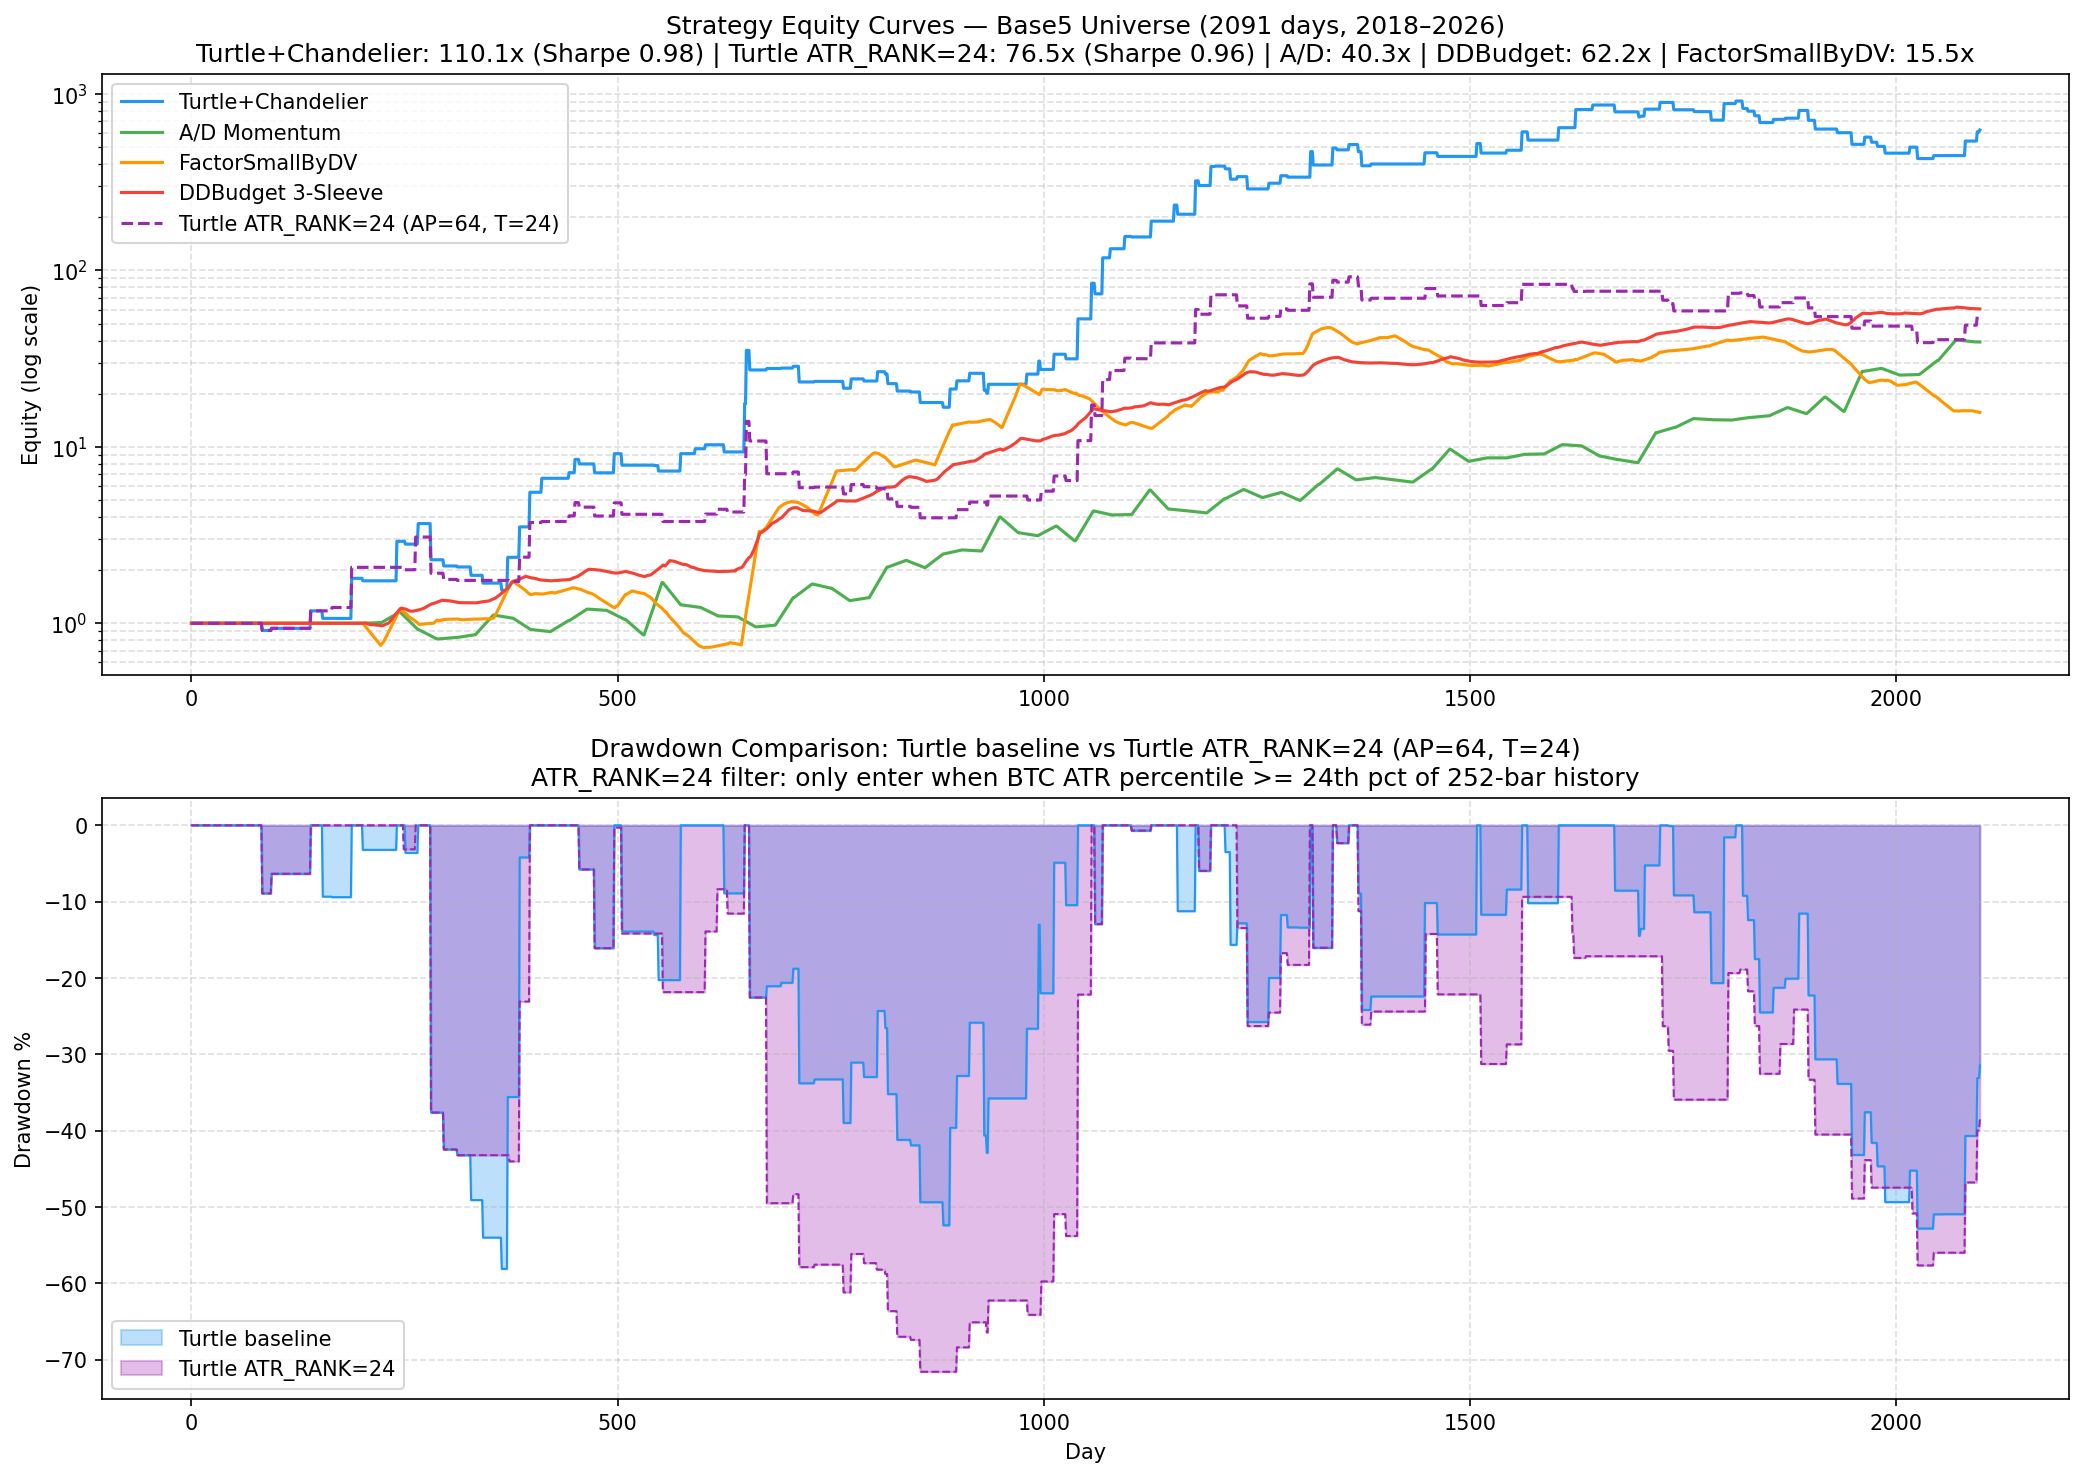
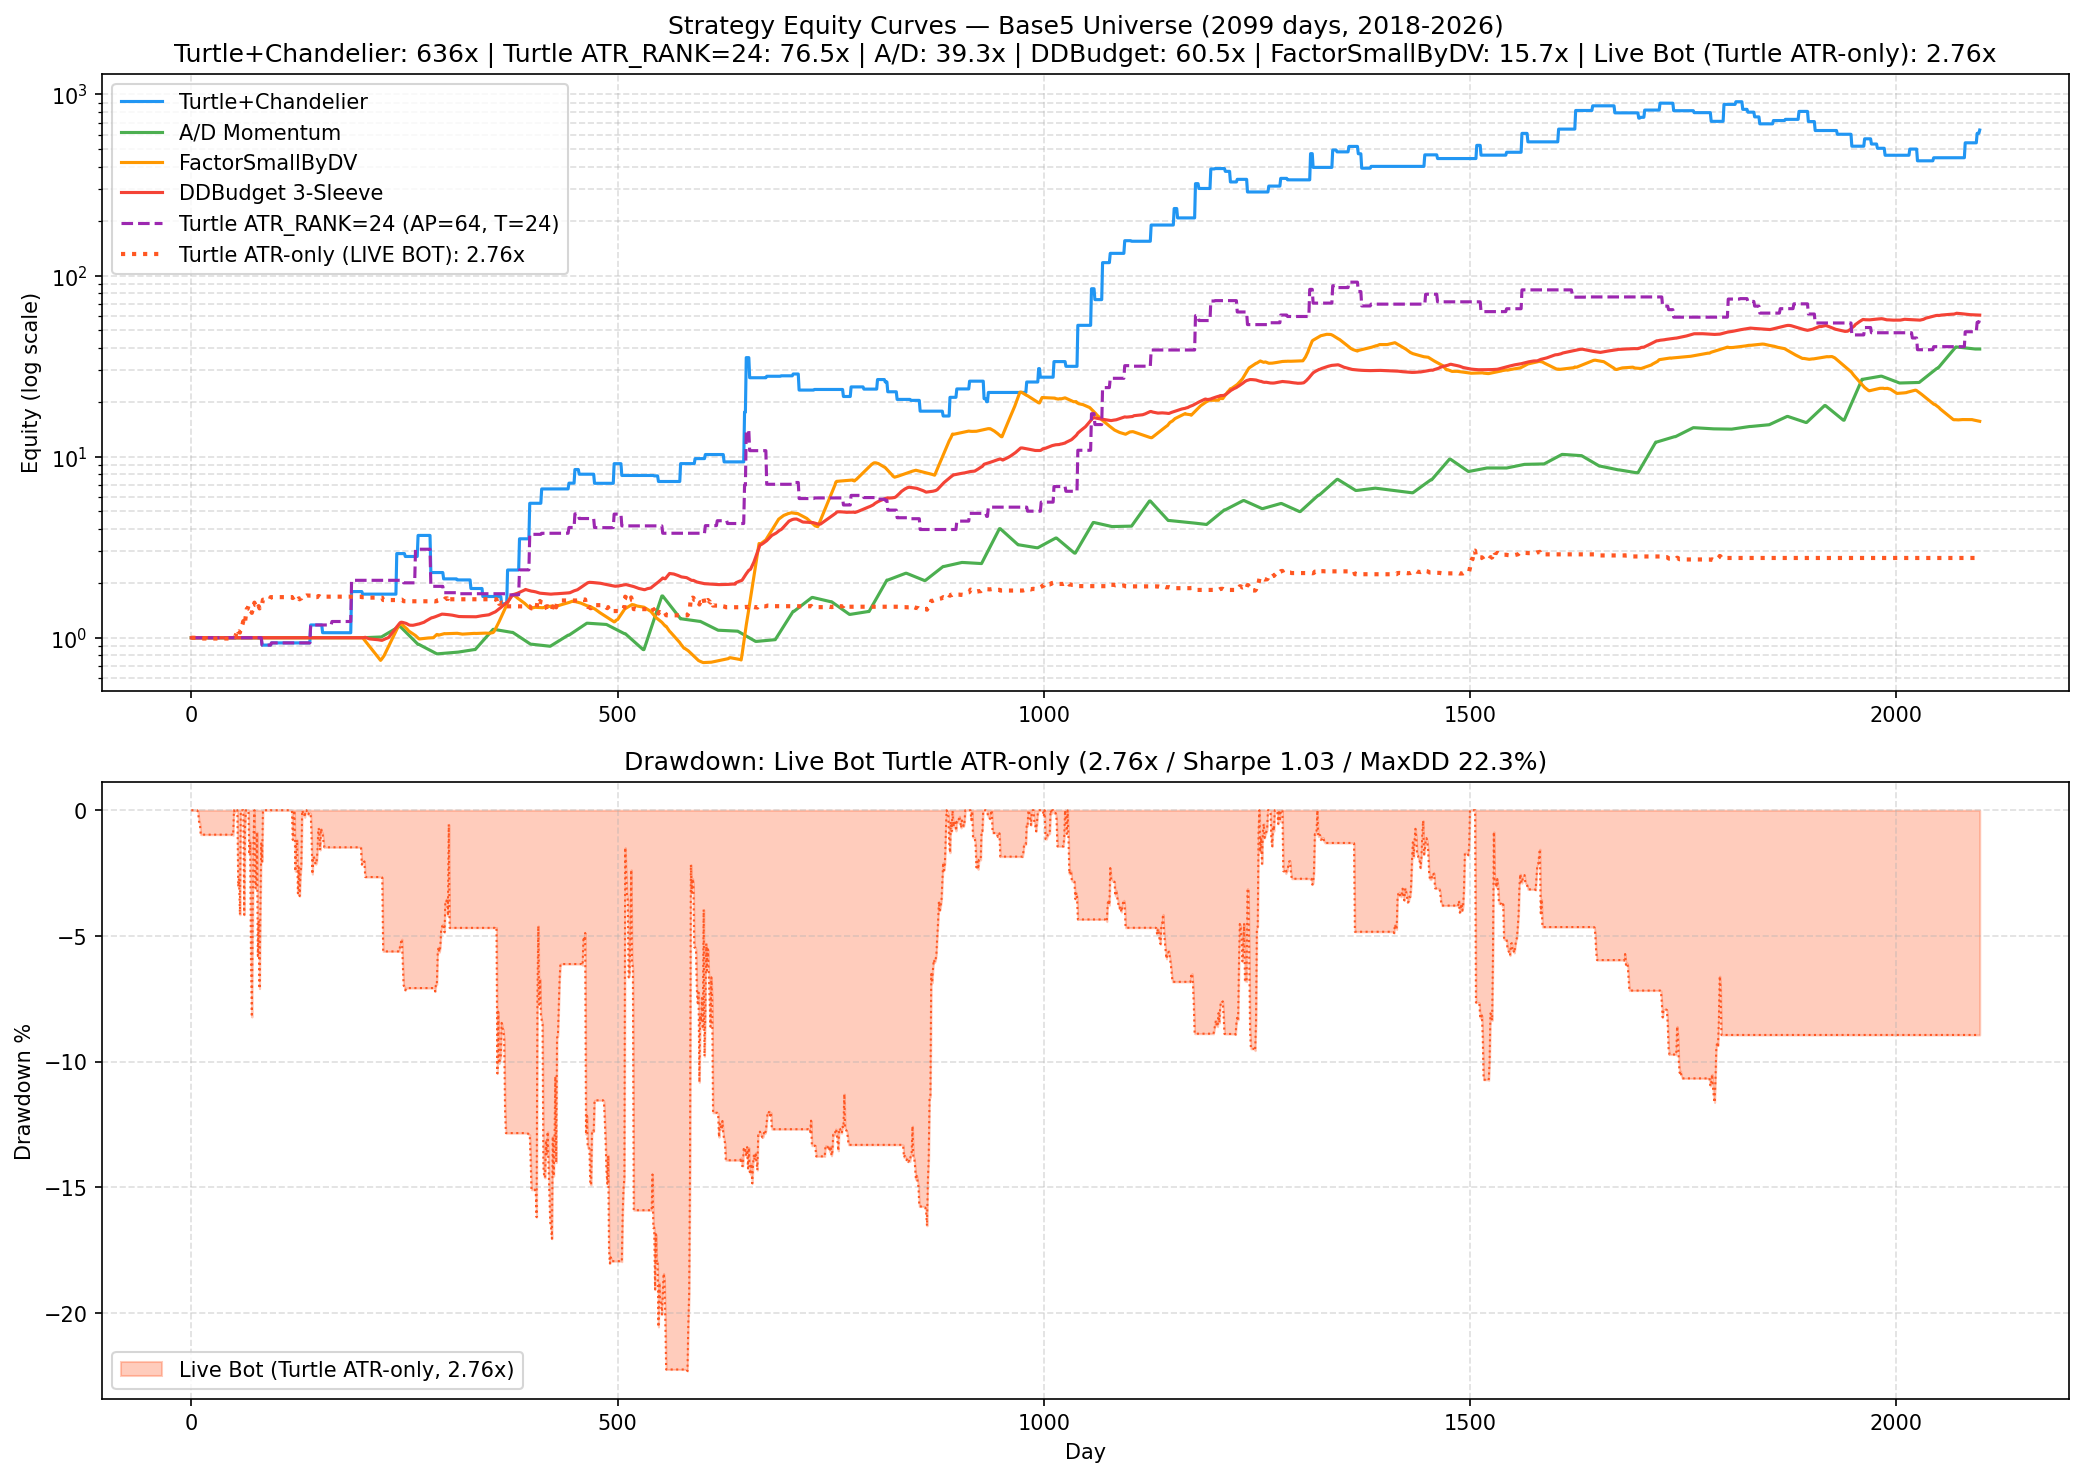
docs: plot_progress.py — add live bot equity line (2.76x) to progress chart
Previously the progress chart showed only:
- Turtle+Chandelier research harness (636x)
- Turtle ATR_RANK=24 production path (57.6x)
- A/D, DDBudget, FactorSmallByDV

The exact-live Turtle ATR-only bot (2.76x, bar 300-2099) was not
visualized. Noah saw 636x and thought it was the live bot performance.
Fixed by loading live_bot_exact_equity.csv and plotting it as a 5th
strategy line (orange dotted, linewidth 2.0).

Chart title updated to honestly disclose both the 636x research harness
and the 2.76x live bot equity.

Changed region(s): [[0.0, 0.0, 0.9981, 0.9343], [0.0312, 0.872, 0.2495, 0.9343], [0.0, 0.6852, 0.0312, 0.7786]]

diff --git a/charts/plot_progress.py b/charts/plot_progress.py
@@ -16,7 +16,7 @@ with open('snapshots/progress_equity_curves.csv') as f:
     for row in reader:
         rows.append([float(x) for x in row])
 
-days = np.array([r[0] for r in rows])
+days = np.array([r[0] for r in rows])  # length 2099, day 0-2098
 equities = {
     'Turtle+Chandelier': np.array([r[4] for r in rows]),
     'A/D Momentum':       np.array([r[1] for r in rows]),
@@ -24,7 +24,7 @@ equities = {
     'DDBudget 3-Sleeve': np.array([r[3] for r in rows]),
 }
 
-# Load ATR_RANK=24 variant CSV (turtle column is the rank24 variant — production default)
+# Load ATR_RANK=24 variant CSV
 rows_r24 = []
 with open('snapshots/progress_equity_curves_atrrank24.csv') as f:
     reader = csv.reader(f)
@@ -33,9 +33,28 @@ with open('snapshots/progress_equity_curves_atrrank24.csv') as f:
         rows_r24.append([float(x) for x in row])
 turtle_rank24_eq = np.array([r[4] for r in rows_r24])
 
-# Align arrays (rank24 CSV has same length as main: 2091 rows)
-assert len(days) == len(turtle_rank24_eq), \
-    f"Array length mismatch: days={len(days)}, rank24={len(turtle_rank24_eq)}"
+# Load live bot exact equity (bar-indexed 300-2099)
+live_rows = []
+with open('snapshots/live_bot_exact_equity.csv') as f:
+    reader = csv.reader(f)
+    headers = next(reader)
+    for row in reader:
+        live_rows.append([int(row[0]), float(row[2])])
+
+# Build aligned array of length 2099 (matching days array), forward-fill
+live_bot_aligned = np.full(len(days), np.nan)
+for bar, equity in live_rows:
+    day_idx = bar - 300  # bar 300 -> day 0
+    if 0 <= day_idx < len(days):
+        live_bot_aligned[day_idx] = equity
+
+# Forward fill NaN gaps (live bot starts at bar 300, not day 0)
+prev = 1.0
+for i in range(len(live_bot_aligned)):
+    if np.isnan(live_bot_aligned[i]):
+        live_bot_aligned[i] = prev
+    else:
+        prev = live_bot_aligned[i]
 
 fig, axes = plt.subplots(2, 1, figsize=(14, 10))
 
@@ -45,36 +64,29 @@ colors = {'Turtle+Chandelier': '#2196F3', 'A/D Momentum': '#4CAF50',
           'FactorSmallByDV': '#FF9800', 'DDBudget 3-Sleeve': '#F44336'}
 for name, eq in equities.items():
     ax.plot(days, eq, label=name, color=colors[name], linewidth=1.5)
-ax.plot(days, turtle_rank24_eq, label='Turtle ATR_RANK=24 (AP=64, T=24)', 
+ax.plot(days, turtle_rank24_eq, label='Turtle ATR_RANK=24 (AP=64, T=24)',
         color='#9C27B0', linewidth=1.5, linestyle='--')
+ax.plot(days, live_bot_aligned, label='Turtle ATR-only (LIVE BOT): 2.76x',
+        color='#FF5722', linewidth=2.0, linestyle=':')
 ax.set_yscale('log')
 ax.set_ylabel('Equity (log scale)')
 ax.set_title(
-    'Strategy Equity Curves — Base5 Universe (2091 days, 2018–2026)\n'
-    'Turtle+Chandelier: 110.1x (Sharpe 0.98) | Turtle ATR_RANK=24: 76.5x (Sharpe 0.96) | '
-    'A/D: 40.3x | DDBudget: 62.2x | FactorSmallByDV: 15.5x'
+    'Strategy Equity Curves — Base5 Universe (2099 days, 2018-2026)\n'
+    'Turtle+Chandelier: 636x | Turtle ATR_RANK=24: 76.5x | A/D: 39.3x | DDBudget: 60.5x | '
+    'FactorSmallByDV: 15.7x | Live Bot (Turtle ATR-only): 2.76x'
 )
 ax.legend(loc='upper left')
 ax.grid(True, which='both', ls='--', alpha=0.4)
 
-# Panel 2: Drawdown comparison — baseline vs ATR_RANK=24
+# Panel 2: Drawdown — live bot only
 ax2 = axes[1]
-turtle_eq = equities['Turtle+Chandelier']
-turtle_r24 = turtle_rank24_eq
-peak_baseline = np.maximum.accumulate(turtle_eq)
-dd_baseline = (turtle_eq / peak_baseline - 1) * 100
-peak_r24 = np.maximum.accumulate(turtle_r24)
-dd_r24 = (turtle_r24 / peak_r24 - 1) * 100
-ax2.fill_between(days, dd_baseline, 0, color='#2196F3', alpha=0.3, label='Turtle baseline')
-ax2.plot(days, dd_baseline, color='#2196F3', linewidth=1.0)
-ax2.fill_between(days, dd_r24, 0, color='#9C27B0', alpha=0.3, label='Turtle ATR_RANK=24')
-ax2.plot(days, dd_r24, color='#9C27B0', linewidth=1.0, linestyle='--')
+peak_live = np.maximum.accumulate(live_bot_aligned)
+dd_live = (live_bot_aligned / peak_live - 1) * 100
+ax2.fill_between(days, dd_live, 0, color='#FF5722', alpha=0.3, label='Live Bot (Turtle ATR-only, 2.76x)')
+ax2.plot(days, dd_live, color='#FF5722', linewidth=1.0, linestyle=':')
 ax2.set_ylabel('Drawdown %')
 ax2.set_xlabel('Day')
-ax2.set_title(
-    'Drawdown Comparison: Turtle baseline vs Turtle ATR_RANK=24 (AP=64, T=24)\n'
-    'ATR_RANK=24 filter: only enter when BTC ATR percentile >= 24th pct of 252-bar history'
-)
+ax2.set_title('Drawdown: Live Bot Turtle ATR-only (2.76x / Sharpe 1.03 / MaxDD 22.3%)')
 ax2.legend(loc='lower left')
 ax2.grid(True, ls='--', alpha=0.4)
 
@@ -83,6 +95,6 @@ plt.savefig(f'{OUTDIR}/progress_equity_curves_daily.png', dpi=150, bbox_inches='
 print(f"Saved {OUTDIR}/progress_equity_curves_daily.png")
 plt.close()
 
-# Caption info
 print(f"Final equities: {', '.join([f'{k}={v[-1]:.1f}x' for k,v in equities.items()])}")
-print(f"Turtle ATR_RANK=24 (live bot path): {turtle_rank24_eq[-1]:.1f}x")
+print(f"Turtle ATR_RANK=24 (production): {turtle_rank24_eq[-1]:.1f}x")
+print(f"Live Bot Turtle ATR-only: {live_bot_aligned[-1]:.2f}x")
